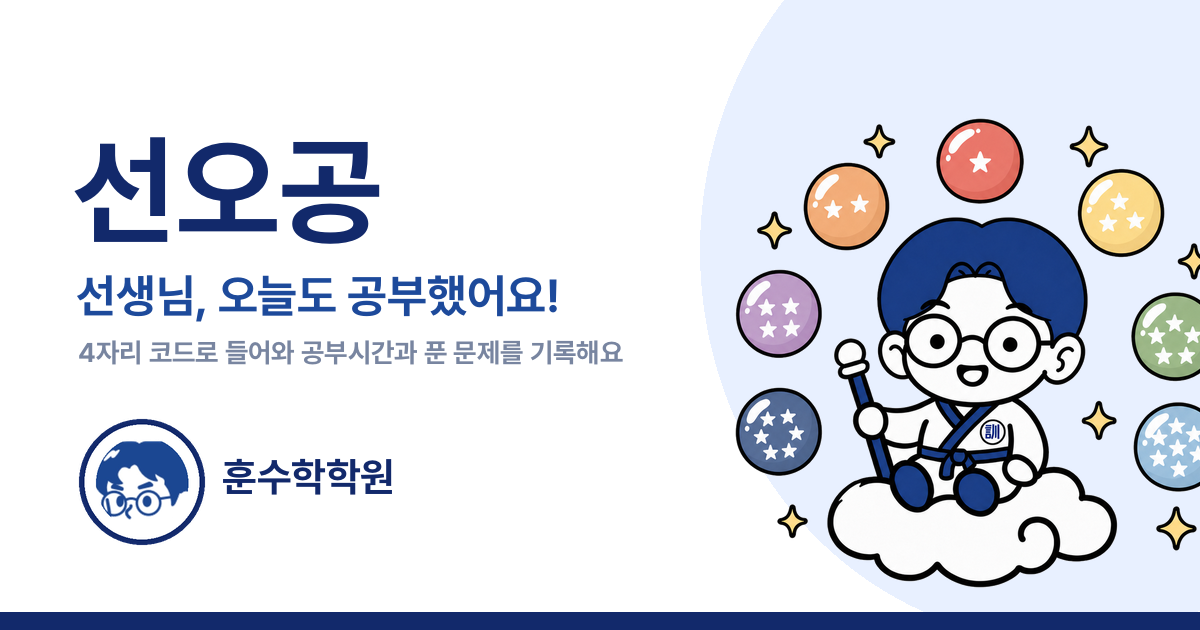
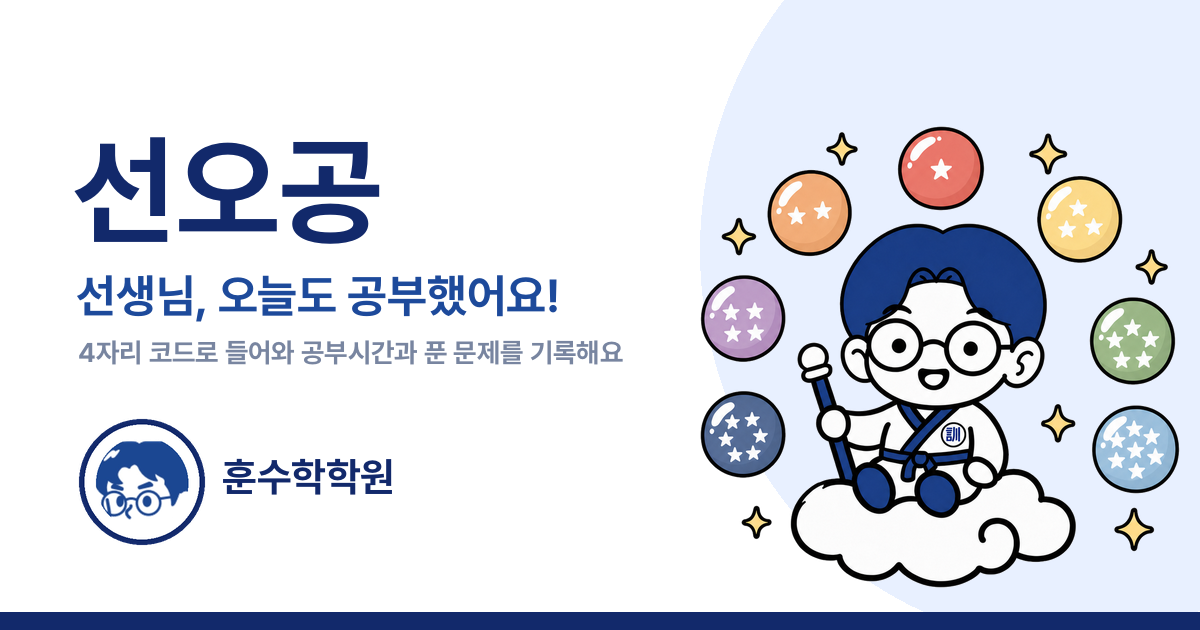
공유 미리보기: 마스코트가 오른쪽에서 잘리지 않게

Changed region(s): [[0.5858, 0.181, 1.0, 0.9349]]

diff --git a/tools/make_mascot.py b/tools/make_mascot.py
@@ -150,9 +150,9 @@ def main() -> None:
     d.rectangle((0, 612, 1200, 630), fill=NAVY)
 
     og_mascot = art.copy()
-    ratio = 470 / og_mascot.height
-    og_mascot = og_mascot.resize((round(og_mascot.width * ratio), 470), Image.LANCZOS)
-    og.paste(og_mascot, (735, 118), og_mascot)
+    ratio = 462 / og_mascot.height
+    og_mascot = og_mascot.resize((round(og_mascot.width * ratio), 462), Image.LANCZOS)
+    og.paste(og_mascot, (700, 126), og_mascot)
 
     d.text((72, 118), '선오공', font=font(120), fill=NAVY)
     d.text((76, 268), '선생님, 오늘도 공부했어요!', font=font(46), fill=BLUE)
